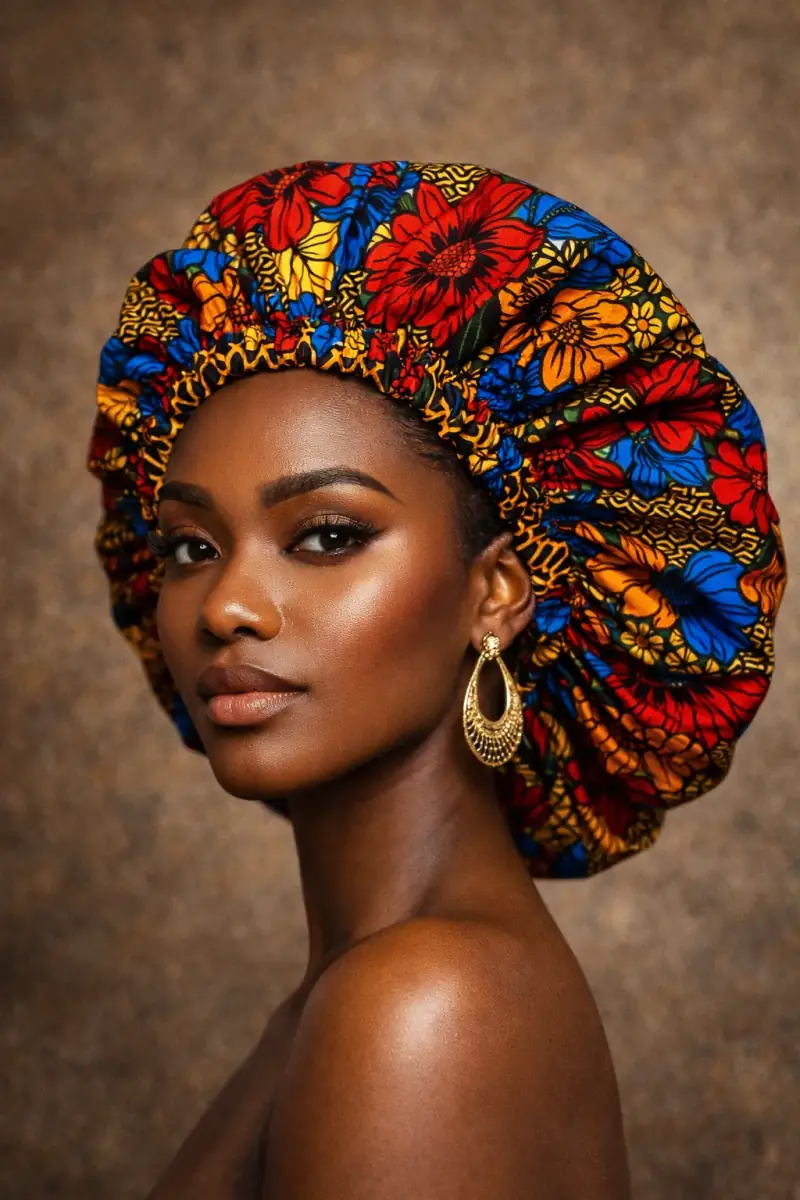
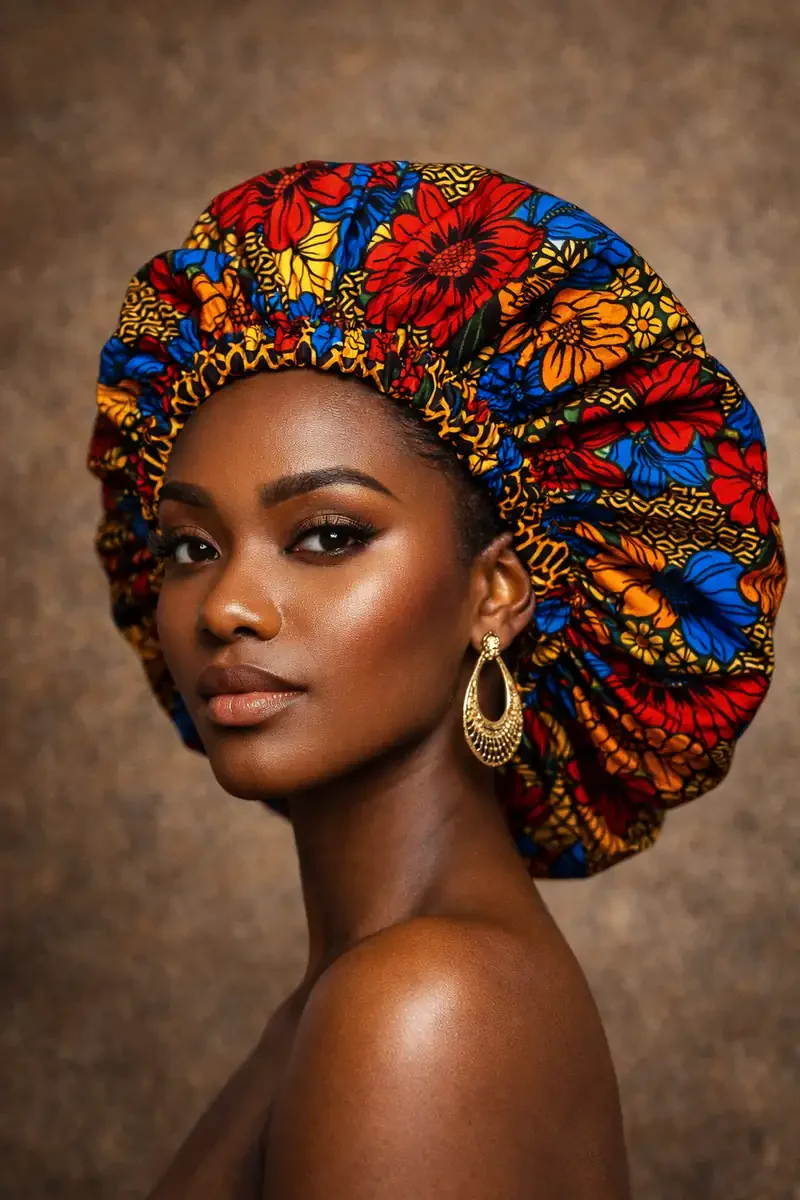
perf(assets): convert all public/assets images to WebP and update gallery references

diff --git a/src/components/landing/BundleSelector.tsx b/src/components/landing/BundleSelector.tsx
@@ -59,7 +59,7 @@ export const BundleSelector = () => {
           {['1', '2', '3', '4', '5', '6'].map((n) => (
             <div key={n} className="rounded-xl overflow-hidden shadow-sm border border-[#EADFC8] bg-white">
               <img
-                src={`${BASE_PATH}assets/${n}.png`}
+                src={`${BASE_PATH}assets/${n}.webp`}
                 alt={`Fulani Hair Gro result ${n}`}
                 className="w-full h-auto object-cover"
                 loading="lazy"

diff --git a/SOP_FORM_TO_GOOGLE_SHEET.md b/SOP_FORM_TO_GOOGLE_SHEET.md
@@ -1,0 +1,266 @@
+# SOP: How the Website Order Form is Connected to Google Sheets
+
+**Purpose:** Document the exact connection between the website order form and the Google Sheet so it can be replicated on other websites.  
+**Scope:** This SOP covers the **live order submission flow** only. No website code was changed to create this document.
+
+---
+
+## 1. Overview
+
+When a customer submits the order form on the website, the browser sends the form data to a Vercel serverless function (`/api/order`). That function then writes the order directly to a Google Sheet using the Google Sheets API v4 and a service account.
+
+There is also a separate **Google Apps Script** endpoint (`src/config/api.ts` / `src/api/storeOrderData.ts`) that is set up for CAPI/Purchase-event order storage, but it is **not currently used by the live order form**. The live form uses the Vercel `api/order.ts` route.
+
+---
+
+## 2. Files Involved
+
+| File | Role |
+|------|------|
+| `src/components/OrderFormEmbed.tsx` | Frontend order form. Collects input and `POST`s JSON to `/api/order`. |
+| `api/order.ts` | Vercel serverless function. Receives the `POST` request and appends a row to Google Sheets. |
+| `.env.example` | Lists the three environment variables the backend needs. |
+| `src/api/storeOrderData.ts` *(optional)* | Helper for storing/retrieving order data via a Google Apps Script web app. Not used by the live form. |
+| `src/config/api.ts` *(optional)* | Holds the Google Apps Script URL and webhook secret. Not used by the live form. |
+
+---
+
+## 3. Data Flow (Step-by-Step)
+
+1. **Customer fills the form** in `src/components/OrderFormEmbed.tsx`.
+2. **On submit**, the component builds a JSON payload:
+   ```json
+   {
+     "checkoutAttemptId": "...",
+     "name": "Customer Name",
+     "phone": "08012345678",
+     "whatsapp": "...",
+     "email": "customer@email.com",
+     "address": "123 Street",
+     "state": "Lagos",
+     "package": "SELF LOVE PLUS",
+     "amount": 32750,
+     "deliveryDate": "...",
+     "lga": "Ikeja",
+     "landmark": "...",
+     "deliveryFee": 3000,
+     "paymentMethod": "Pay on Delivery",
+     "utm_source": "",
+     "click_id": "",
+     "landing_page_url": "https://..."
+   }
+   ```
+3. **The browser sends it** to the backend:
+   ```ts
+   const response = await fetch('/api/order', {
+     method: 'POST',
+     headers: { 'Content-Type': 'application/json' },
+     body: JSON.stringify(payload),
+   });
+   ```
+4. **`api/order.ts` receives the request**, validates required fields, and generates an order ID.
+5. **The function authenticates to Google** using a JWT service account.
+6. **It appends a row** to the `Orders` tab in the configured Google Sheet.
+7. **It returns `{ ok: true, orderId }`**, and the frontend redirects to the Thank You page.
+
+---
+
+## 4. Backend Details (`api/order.ts`)
+
+### Required environment variables
+
+```bash
+GOOGLE_SERVICE_ACCOUNT_EMAIL=sheets-writer@fulani-orders-sheet.iam.gserviceaccount.com
+GOOGLE_PRIVATE_KEY=-----BEGIN PRIVATE KEY-----
+...
+-----END PRIVATE KEY-----
+SHEET_ID=your_google_sheet_id_here
+```
+
+### What the function does
+
+```ts
+import { google } from 'googleapis';
+
+const sheets = google.sheets({ version: 'v4', auth: jwt });
+
+await sheets.spreadsheets.values.append({
+  spreadsheetId: process.env.SHEET_ID,
+  range: 'Orders!A:K',
+  valueInputOption: 'USER_ENTERED',
+  requestBody: {
+    values: [[
+      new Date().toLocaleString('sv-SE', { timeZone: 'Africa/Lagos' }),
+      orderId,
+      body.name,
+      body.phone,
+      body.email || '',
+      body.address,
+      body.state,
+      body.package,
+      Number(body.amount),
+      body.deliveryDate || '',
+      'website'
+    ]]
+  }
+});
+```
+
+### Sheet columns written by `api/order.ts`
+
+| Column | Value |
+|--------|-------|
+| A | Timestamp (`Africa/Lagos`, ISO-like format) |
+| B | Generated order ID, e.g. `FHS-XXXX-XXXX` |
+| C | Customer name |
+| D | Phone number |
+| E | Email (empty string if not provided) |
+| F | Address |
+| G | State |
+| H | Package name |
+| I | Amount (number) |
+| J | Delivery date (empty string if not provided) |
+| K | Source (`website`) |
+
+### Required fields the backend checks
+
+- `name`
+- `phone`
+- `package`
+- `state`
+- `address`
+- `amount`
+
+If any are missing, the request is rejected with `400 Bad Request`.
+
+---
+
+## 5. How to Replicate on Another Website
+
+### 5.1 Create a Google Cloud Service Account
+
+1. Go to [Google Cloud Console](https://console.cloud.google.com/).
+2. Create a new project (or use an existing one).
+3. Enable the **Google Sheets API** for that project.
+4. Go to **IAM & Admin → Service Accounts** and create a service account.
+5. Create a JSON key for the service account.
+6. Copy the `client_email` value → this is `GOOGLE_SERVICE_ACCOUNT_EMAIL`.
+7. Copy the `private_key` value → this is `GOOGLE_PRIVATE_KEY`.  
+   *(It will contain `\n` in the JSON file; convert those to actual newlines in the env variable.)*
+
+### 5.2 Create and Share the Google Sheet
+
+1. Create a new Google Sheet.
+2. Name the first tab **Orders**.
+3. Share the sheet with the service account email, giving it **Editor** permissions.
+4. Copy the spreadsheet ID from the URL:  
+   `https://docs.google.com/spreadsheets/d/{SPREADSHEET_ID}/edit`
+
+### 5.3 Add Environment Variables
+
+In your hosting platform (Vercel, Netlify, etc.), add:
+
+```bash
+GOOGLE_SERVICE_ACCOUNT_EMAIL=<client_email>
+GOOGLE_PRIVATE_KEY=<private_key_with_actual_newlines>
+SHEET_ID=<spreadsheet_id>
+```
+
+### 5.4 Add the API Route
+
+Create `api/order.ts` (or the equivalent route in your framework). The core logic is:
+
+```ts
+import { google } from 'googleapis';
+
+function getSheets() {
+  const auth = new google.auth.JWT({
+    email: process.env.GOOGLE_SERVICE_ACCOUNT_EMAIL,
+    key: process.env.GOOGLE_PRIVATE_KEY?.replace(/\\n/g, '\n'),
+    scopes: ['https://www.googleapis.com/auth/spreadsheets'],
+  });
+  return google.sheets({ version: 'v4', auth });
+}
+
+export default async function handler(req, res) {
+  if (req.method !== 'POST') return res.status(405).end();
+
+  const body = req.body;
+  const required = ['name', 'phone', 'package', 'state', 'address', 'amount'];
+  const missing = required.filter(k => !body[k]);
+  if (missing.length) return res.status(400).json({ error: `Missing: ${missing.join(', ')}` });
+
+  const orderId = `ORDER-${Date.now()}`;
+  const sheets = getSheets();
+
+  await sheets.spreadsheets.values.append({
+    spreadsheetId: process.env.SHEET_ID,
+    range: 'Orders!A:K',
+    valueInputOption: 'USER_ENTERED',
+    requestBody: {
+      values: [[
+        new Date().toISOString(),
+        orderId,
+        body.name,
+        body.phone,
+        body.email || '',
+        body.address,
+        body.state,
+        body.package,
+        Number(body.amount),
+        body.deliveryDate || '',
+        'website'
+      ]]
+    }
+  });
+
+  res.status(200).json({ ok: true, orderId });
+}
+```
+
+### 5.5 Wire the Frontend Form
+
+In the form’s submit handler:
+
+```ts
+const response = await fetch('/api/order', {
+  method: 'POST',
+  headers: { 'Content-Type': 'application/json' },
+  body: JSON.stringify({
+    name,
+    phone,
+    email,
+    address,
+    state,
+    package,
+    amount,
+    deliveryDate
+  })
+});
+
+const result = await response.json();
+if (result.ok) window.location.href = '/thank-you';
+```
+
+### 5.6 Test
+
+1. Submit a test order.
+2. Check the `Orders` sheet for the new row.
+3. Check the function logs for any `Google Sheets not configured` or `SHEET_ID not set` errors.
+
+---
+
+## 6. Troubleshooting
+
+| Symptom | Likely Cause | Fix |
+|---------|--------------|-----|
+| `Google Sheets not configured` | `GOOGLE_SERVICE_ACCOUNT_EMAIL` or `GOOGLE_PRIVATE_KEY` missing | Add the env variables. |
+| `SHEET_ID not set` | `SHEET_ID` missing | Copy the spreadsheet ID and add it. |
+| `Could not record order` / `502` | Service account not shared on the sheet, or wrong `SHEET_ID` | Share the sheet with the service account email and double-check the ID. |
+| `Missing: ...` | Required field not sent | Ensure the frontend sends `name`, `phone`, `package`, `state`, `address`, and `amount`. |
+
+---
+
+## 7. Note on the Google Apps Script Helper
+
+`src/api/storeOrderData.ts` and `src/config/api.ts` are configured to send order data to a Google Apps Script web app (`FULANI_API_URL`) for CAPI order tracking. This is **not currently called by the live order form**. If you want to use it later, it requires a separate Google Apps Script with `store_order_data`, `retrieve_order_data`, and `update_order_status` handlers. For the basic order-form-to-sheet flow, the Vercel `api/order.ts` route is enough.
